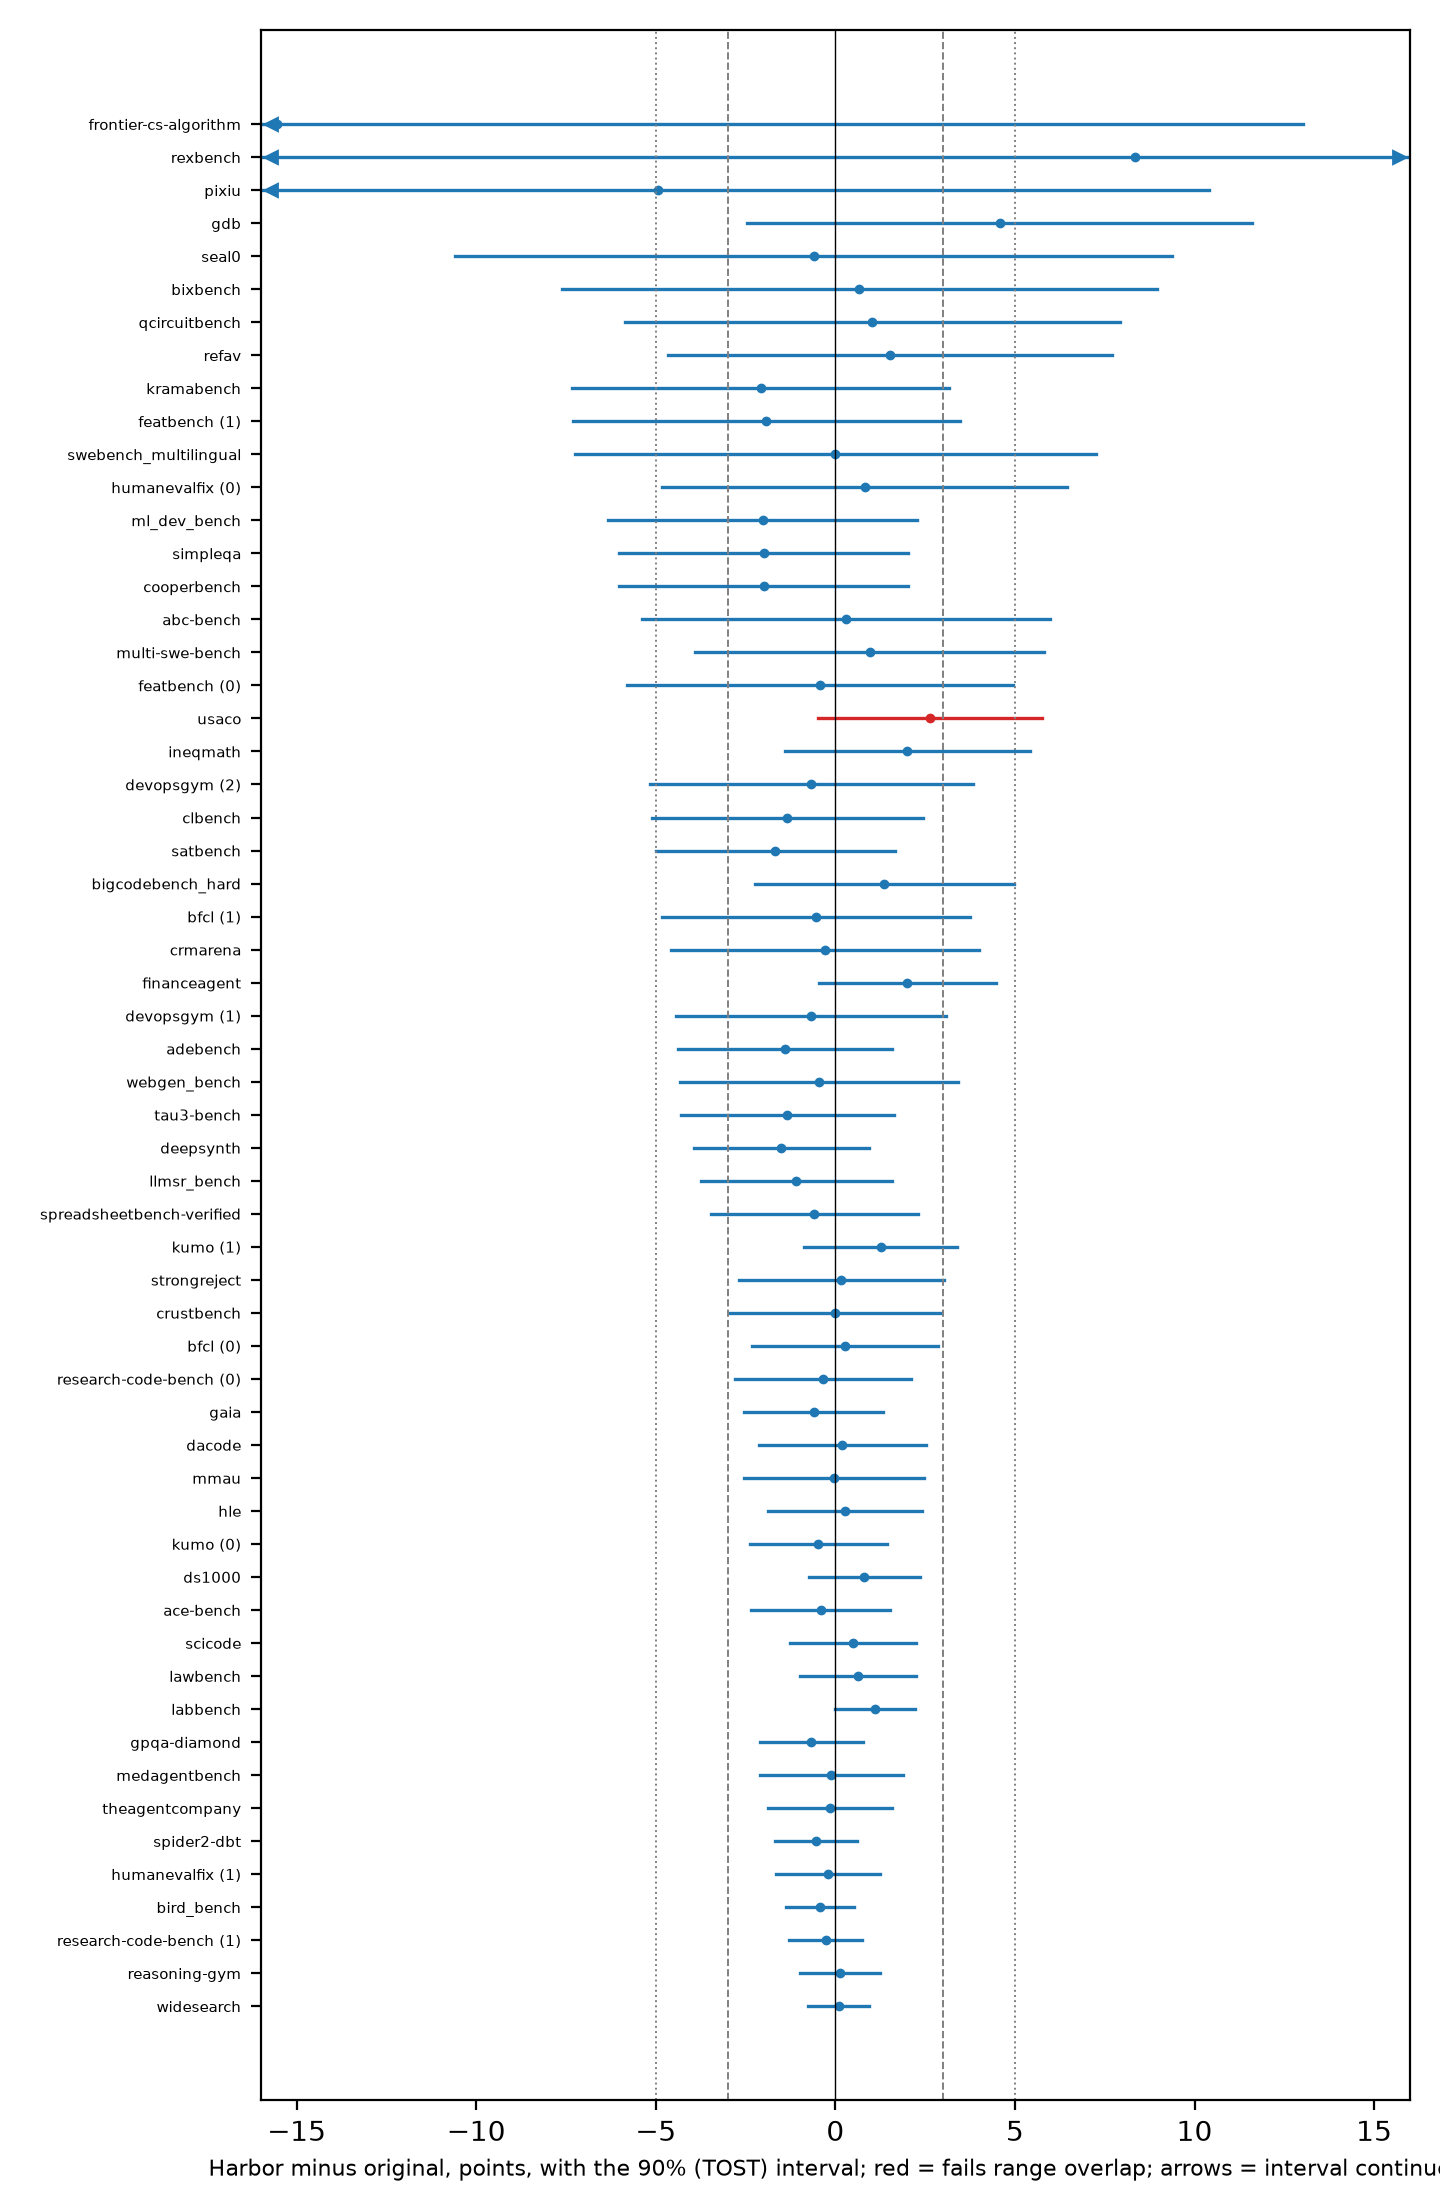
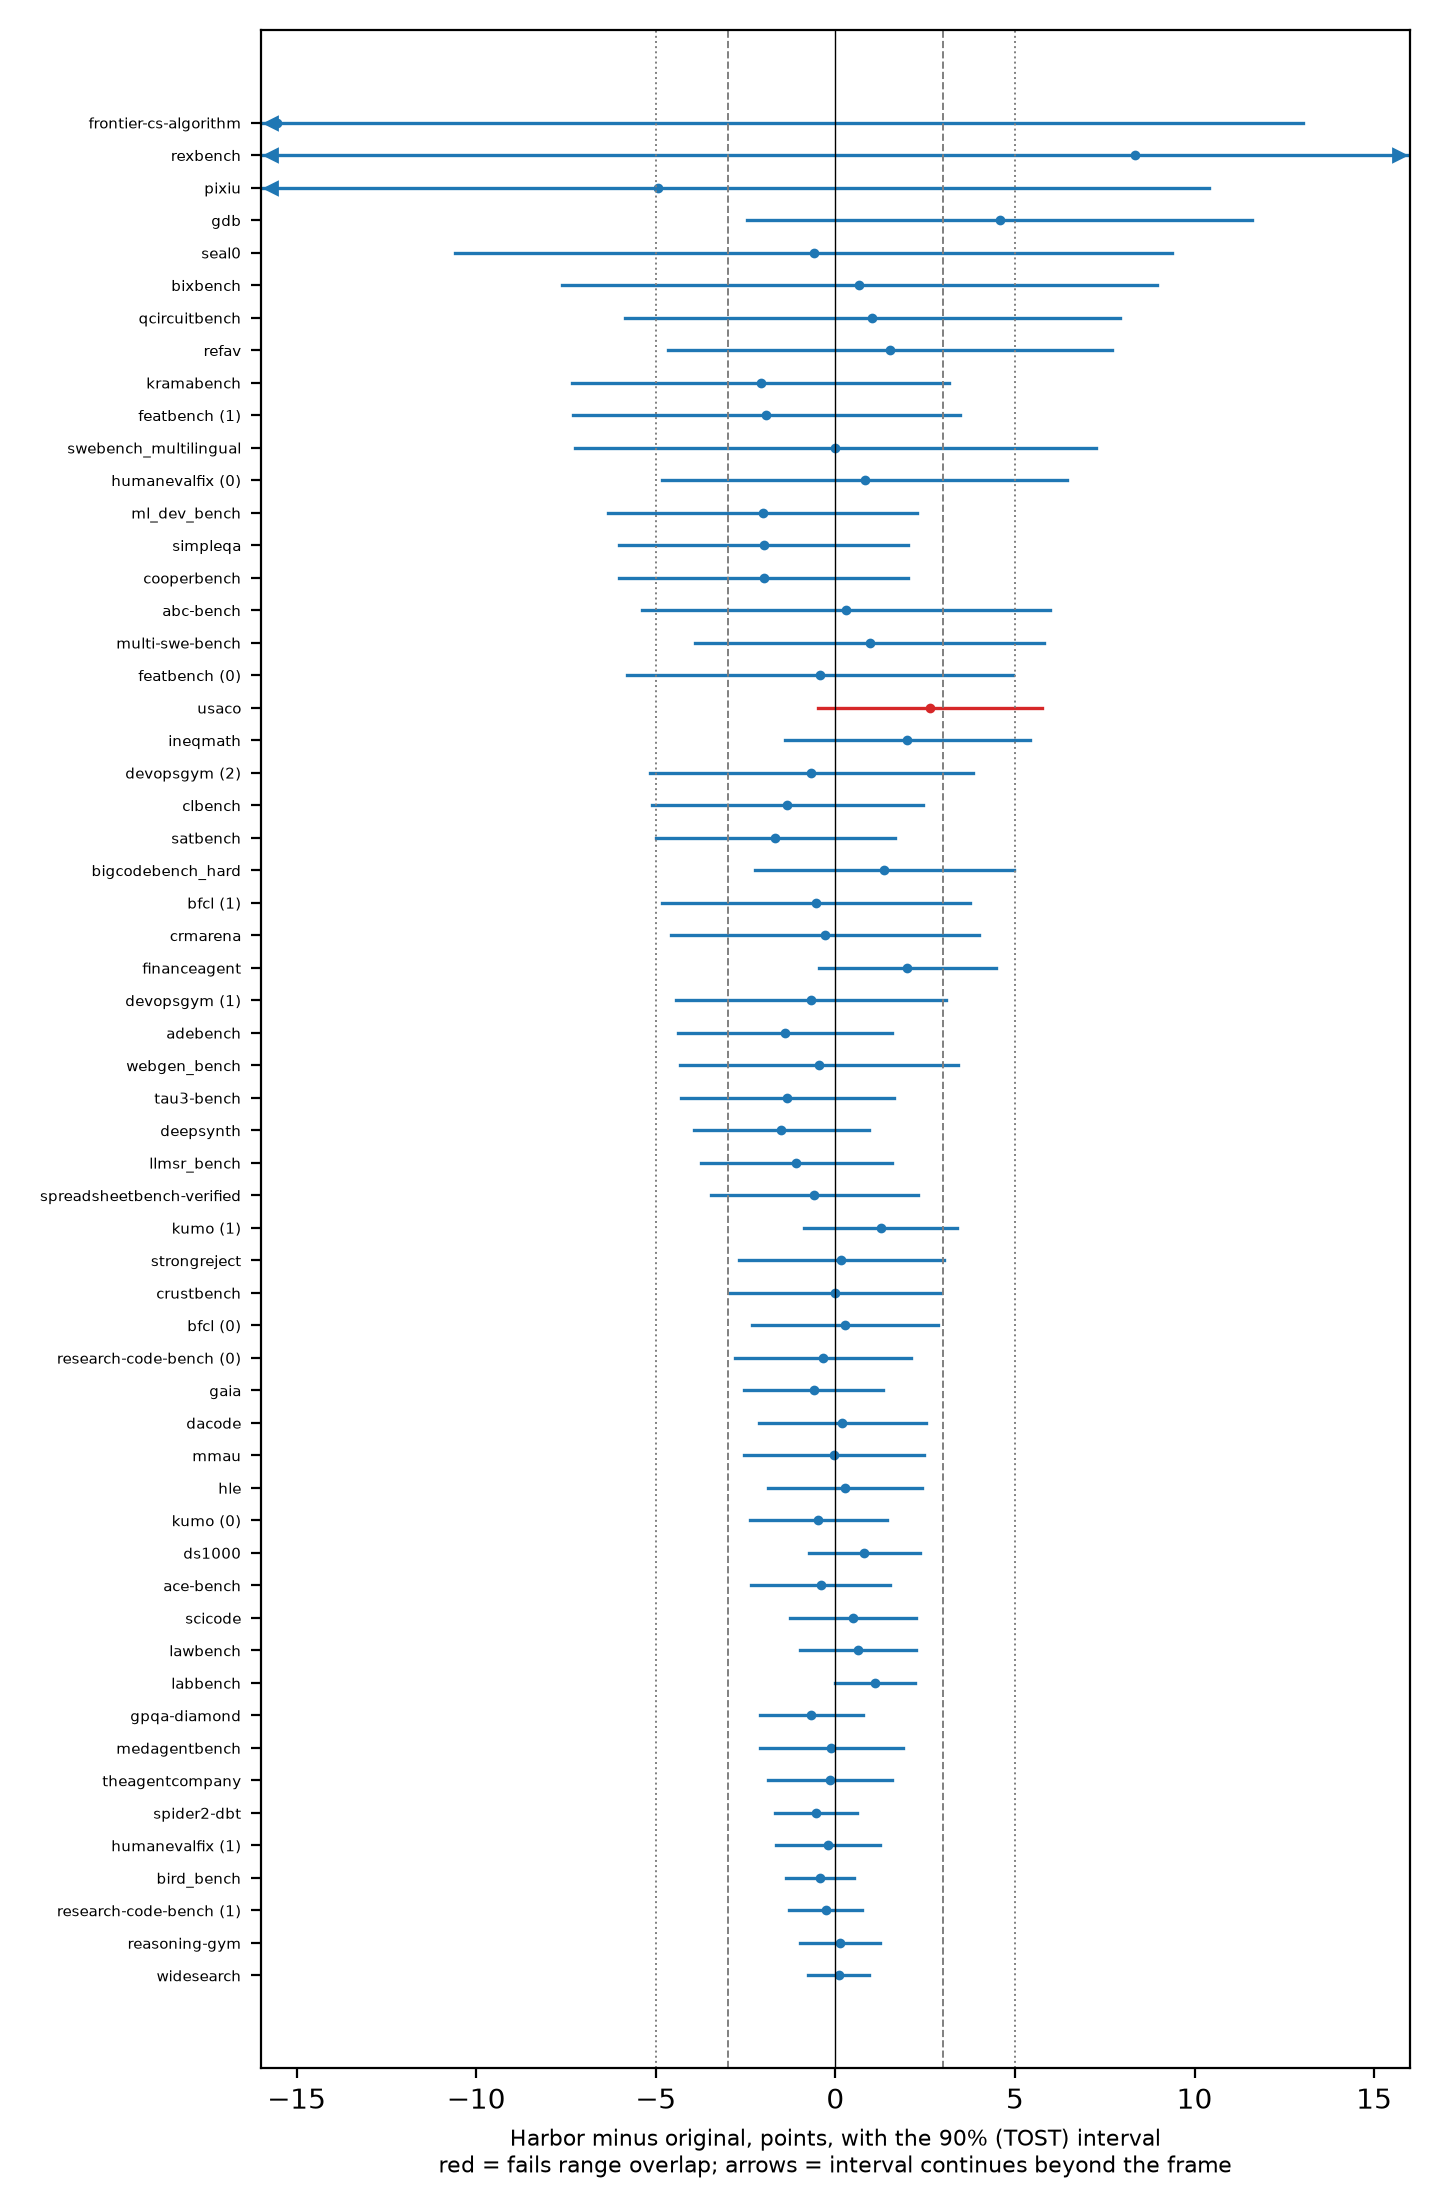
RQ2 figure: axis label on two lines so it is not clipped

diff --git a/scripts/p2_rq2_evidence.py b/scripts/p2_rq2_evidence.py
@@ -179,7 +179,7 @@ for m, ls in ((3, "--"), (5, ":")):
     ax.axvline(m, color="grey", ls=ls, lw=0.7); ax.axvline(-m, color="grey", ls=ls, lw=0.7)
 ax.axvline(0, color="black", lw=0.5)
 ax.set_yticks(y); ax.set_yticklabels([f"{r['adapter']} ({r['exp']})" if sum(1 for q in hs if q['adapter'] == r['adapter']) > 1 else r["adapter"] for r in hs], fontsize=5.5)
-ax.set_xlabel("Harbor minus original, points, with the 90% (TOST) interval; red = fails range overlap; arrows = interval continues", fontsize=8)
+ax.set_xlabel("Harbor minus original, points, with the 90% (TOST) interval\nred = fails range overlap; arrows = interval continues beyond the frame", fontsize=8)
 ax.set_xlim(-XLIM, XLIM)
 fig.tight_layout(); fig.savefig(os.path.join(p2, "figures", "fig_rq2_margins.png"), dpi=200); fig.savefig(os.path.join(p2, "figures", "fig_rq2_margins.pdf"))
 
